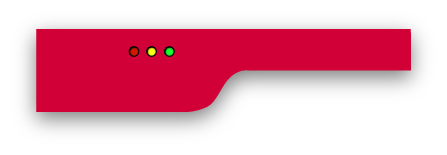
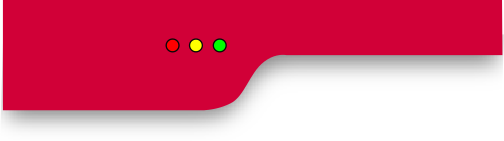
Diseño responsive completo

diff --git a/test/data.spec.js b/test/data.spec.js
@@ -53,9 +53,51 @@ describe('dataUtilities.orderAlphabeticallyAz', () => {
     });
 
     it('should return an array ordered from A to Z', () => {
-        const pokemonList = ["bulbasaur", "venusaur", "ivysaur", "charmander"];
-        const pokemonListOrdered = ["bulbasaur", "charmander", "ivysaur", "venusaur"];
+        const pokemonList = data.pokemon;
+        const pokemonListOrdered = data.pokemon.sort((a, b) => {
+            if (a.name > b.name) {
+                return 1;
+            }
+            if (a.name < b.name) {
+                return -1;
+            }
+            return 0;
+        })
 
         expect(dataUtilities.orderAlphabeticallyAz(pokemonList)).toStrictEqual(pokemonListOrdered);
     });
+})
+
+//Test de ordenado alfabetico
+describe('dataUtilities.orderNumericallyDirect', () => {
+
+    it('should be a function', () => {
+        expect(typeof dataUtilities.orderNumericallyDirect).toBe('function')
+    });
+
+    it('should return an array ordered from 001 to 251', () => {
+        const pokemonList = data.pokemon;
+        const pokemonListOrdered = data.pokemon.sort((a, b) => {
+            if (a.num > b.num) {
+                return 1;
+            }
+            if (a.num < b.num) {
+                return -1;
+            }
+            return 0;
+        })
+
+        expect(dataUtilities.orderNumericallyDirect(pokemonList)).toStrictEqual(pokemonListOrdered);
+    });
+})
+
+//Test de calculadora
+
+describe('dataUtilities.comparePokemon', () => {
+
+    it('should compare two pokemons and return who is the winner', () => {
+        const player1 = "bulbasaur";
+        const player2 = "wartortle";
+        expect(dataUtilities.comparePokemon(player1, player2)).toBe("¡Ganaste!")
+    })
 })

diff --git a/src/main.js b/src/main.js
@@ -17,6 +17,7 @@ const container = document.getElementById("container");
 const pokeCardContainer = document.getElementById("pokeCardContainer");
 const closeStartModal = document.getElementById("closeStartModal");
 const helpButton = document.getElementById("helpButton");
+
 //Mostrar las cartas en la galería
 function showCards(dataArr) {
     container.innerHTML = "";
@@ -151,8 +152,6 @@ versusButton.addEventListener("click", function() {
 
 })
 
-showCards(eachPokemon);
-
 //Función mostrar modal personalizado
 function showPokeCards(dataArr) {
     for (let k = 0; k < dataArr.length; k++) {
@@ -187,16 +186,6 @@ function showPokeCards(dataArr) {
     }
 }
 
-if (screen.width <= 600) {
-    console.log(screen.width)
-    document.getElementById("headerImage").src = 'images/cabecera-mobile.png';
-} else if (screen.width > 600) {
-    document.getElementById("headerImage").src = 'images/cabecera-desktop.png';
-}
-
-
-showPokeCards(eachPokemon);
-
 //Cerrando modal de inicio
 closeStartModal.addEventListener("click", function() {
         document.getElementById("startModal").style.display = "none";
@@ -206,7 +195,8 @@ helpButton.addEventListener("click", function() {
     document.getElementById("modalHelp").style.display = "block"
 })
 
-
+showCards(eachPokemon);
+showPokeCards(eachPokemon);
 
 //Paginacion 
 // const first = document.querySelector(".first");

diff --git a/src/style.css b/src/style.css
@@ -51,6 +51,22 @@ a {
 }
 
 
+/*Header*/
+
+#headerImage1 {
+    display: block;
+}
+
+#headerImage2 {
+    display: none;
+}
+
+#headerImage1,
+#headerImage2 {
+    width: 100%;
+}
+
+
 /*Aside*/
 
 .boton-versus {
@@ -147,10 +163,6 @@ nav * {
     top: 70px;
     right: 10px;
     position: absolute;
-}
-
-#headerImage {
-    width: 100%;
 }
 
 .imageContainer {
@@ -676,6 +688,12 @@ footer {
 }
 
 @media (max-width: 600px) {
+    #headerImage1 {
+        display: none;
+    }
+    #headerImage2 {
+        display: block;
+    }
     #general {
         width: 100%;
     }
@@ -687,10 +705,10 @@ footer {
     }
     #menuHamburguesa {
         position: absolute;
-        width: 80px;
-        height: 80px;
-        top: 15px;
-        left: 15px;
+        width: 75px;
+        height: 75px;
+        top: 10px;
+        left: 20px;
     }
     nav {
         display: flex;
@@ -741,5 +759,15 @@ footer {
     }
     .span1 {
         font-size: 150px;
+    }
+    .sticker {
+        width: 100%;
+        margin: 30px 0px;
+    }
+    #counter-type {
+        margin-bottom: 0px;
+    }
+    .links {
+        margin: 310px 0px 0px 50px;
     }
 }

diff --git a/src/index.html b/src/index.html
@@ -37,7 +37,8 @@
     </div>
     <div id="general">
         <header>
-            <img id="headerImage" src="" alt="">
+            <img id="headerImage1" src="images/cabecera-desktop.png" alt="">
+            <img id="headerImage2" src="images/cabecera-mobile.png" alt="">
             <a href="#" id="menu-button"><img id="menuHamburguesa" src="images/boton-menu.png" width="100px" height="100px"></a>
             <h1 class="title" id="title"><img src="images/titulo.png" alt=""></h1>
         </header>
